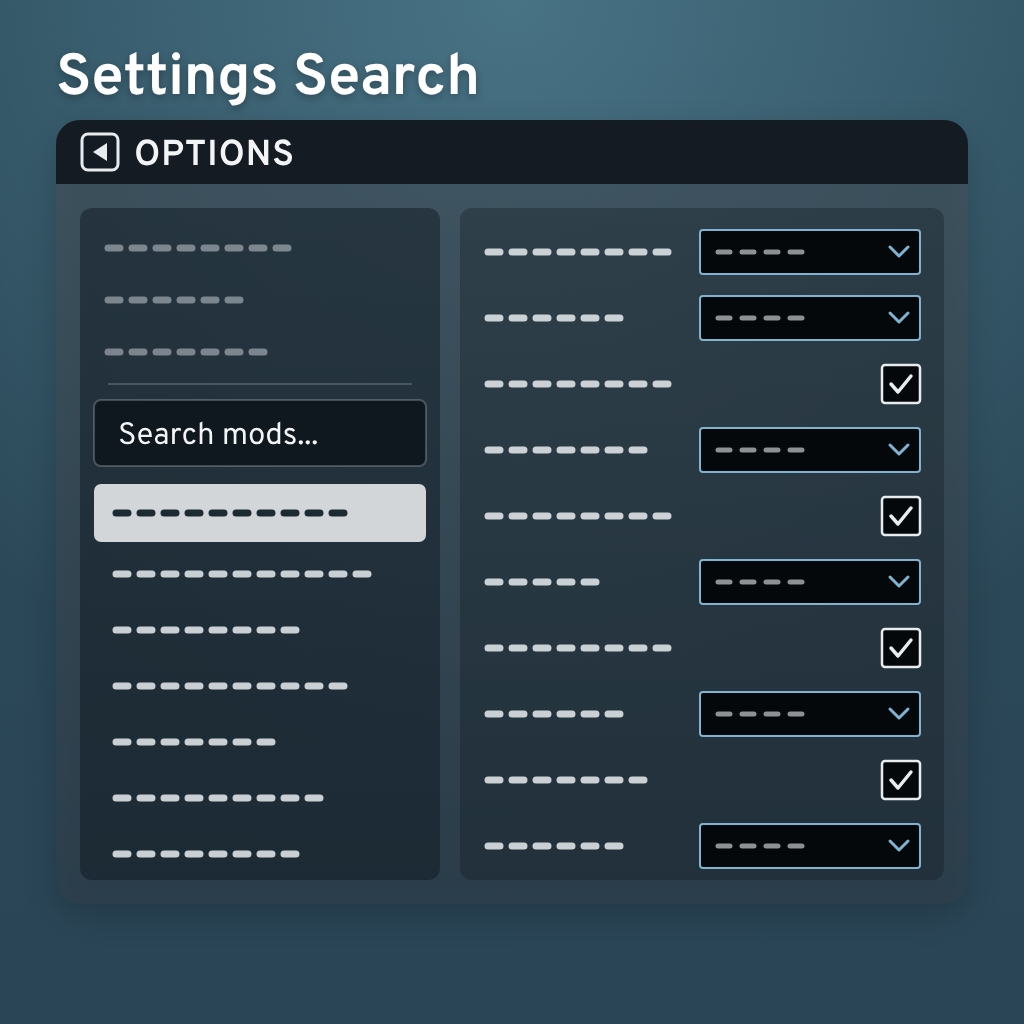
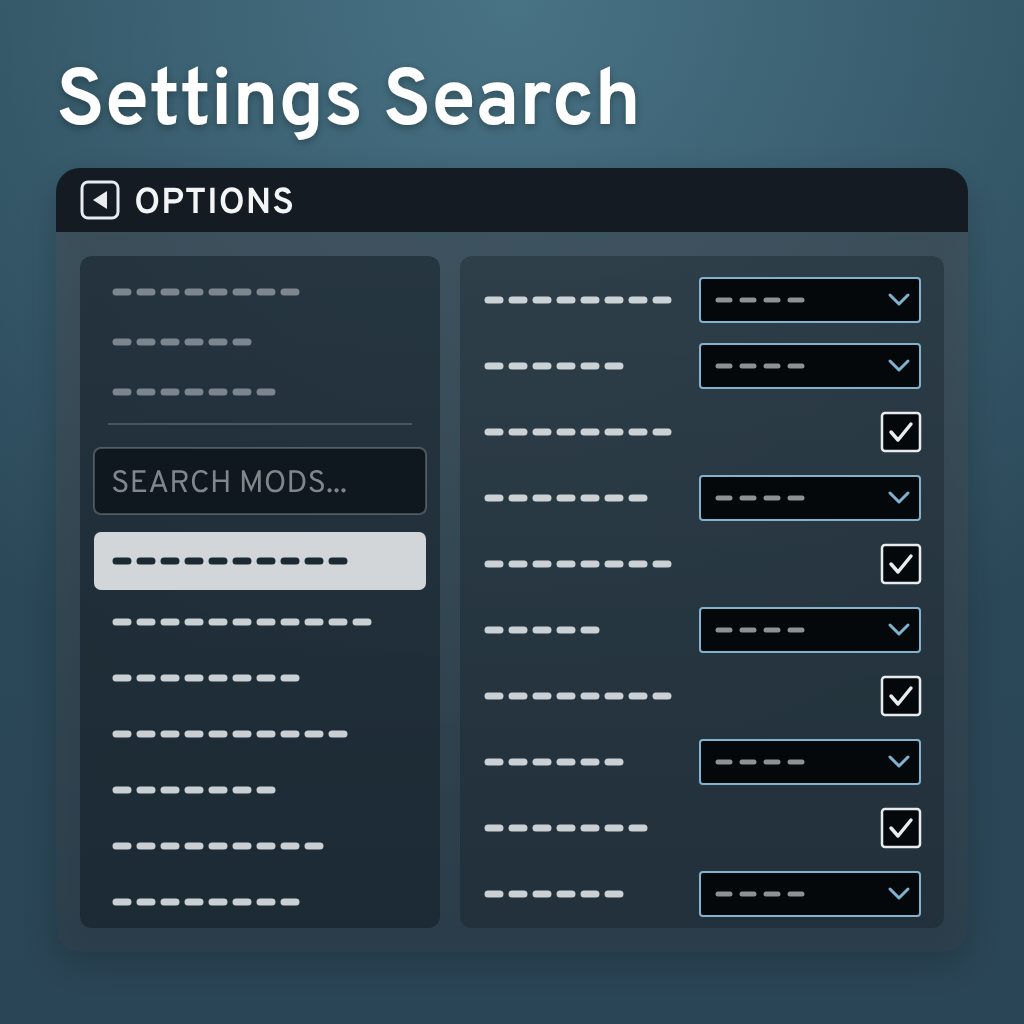
V1.1.0

diff --git a/UI/src/mod-search.tsx b/UI/src/mod-search.tsx
@@ -11,40 +11,21 @@ export const MIN_QUERY_LENGTH = 2;
 const TextInput = getModule("game-ui/common/input/text/text-input.tsx", "TextInput");
 const IconButton = getModule("game-ui/common/input/button/icon-button.tsx", "IconButton");
 const useTextInputTheme = getModule("game-ui/common/input/text/ellipsis-text-input/ellipsis-text-input-theme.tsx", "useTextInputTheme");
-const renderLocalized = getModule("game-ui/common/localization/localized.tsx", "renderLocalized");
 const searchClasses = getModule("game-ui/menu/components/options-screen/options-search.module.scss", "classes");
 
 const CLEAR_ICON = "Media/Glyphs/Clear.svg";
 
 export const InOptionsScreenContext = createContext(false);
 
-export interface OptionItem {
-    id: string;
-    displayName: any;
-    searchHidden?: boolean;
-}
-
 export interface OptionPage {
     id: string;
     builtIn: boolean;
-    sections: { id: string; items: OptionItem[] }[];
+    sections: unknown[];
 }
 
-const localize = (localization: Localization, value: any): string => {
-    try {
-        return renderLocalized(localization, value) ?? "";
-    } catch {
-        return value?.value ?? "";
-    }
-};
-
 export const pageMatches = (localization: Localization, page: OptionPage, query: string) => {
-    const needle = query.trim().toLowerCase();
     const name = localization.translate(`Options.SECTION[${page.id}]`) ?? page.id;
-    if (name.toLowerCase().includes(needle)) return true;
-    return page.sections.some((section) =>
-        section.items.some((item) => !item.searchHidden && localize(localization, item.displayName).toLowerCase().includes(needle))
-    );
+    return name.toLowerCase().includes(query.trim().toLowerCase());
 };
 
 export const useModPageVisible = (page: OptionPage, active: boolean) => {

diff --git a/UI/src/mod-search.module.scss b/UI/src/mod-search.module.scss
@@ -2,10 +2,16 @@
     position: relative;
     display: flex;
     flex-direction: row;
-    margin: 0 0 8rem 0;
+    margin: 8rem 0 8rem 0;
 
     .input {
         width: 100%;
         flex: 1 1 auto;
+        padding-left: calc(12rem - var(--stroke1));
+
+        &:global(.placeholder) {
+            color: rgba(255, 255, 255, 0.5);
+            text-transform: uppercase;
+        }
     }
 }

diff --git a/ModAssemblyInfo/ModAssemblyInfo.cs b/ModAssemblyInfo/ModAssemblyInfo.cs
@@ -10,7 +10,7 @@ namespace SettingsSearch
     public class ModAssemblyInfo
     {
         public const string Name        = "SettingsSearch";
-        public const string Version     = "1.0.0";
+        public const string Version     = "1.1.0";
         public const string Title       = "Settings Search";
         public const string Description = "Adds a search bar to the options menu to quickly find any mod's settings";
     }

diff --git a/ChangeLog.md b/ChangeLog.md
@@ -1,1 +1,4 @@
-- Initial release
+- UI improvements
+- Updated the thumbnail to represent the UI improvements
+- Updated screenshots
+- Improved search logic
